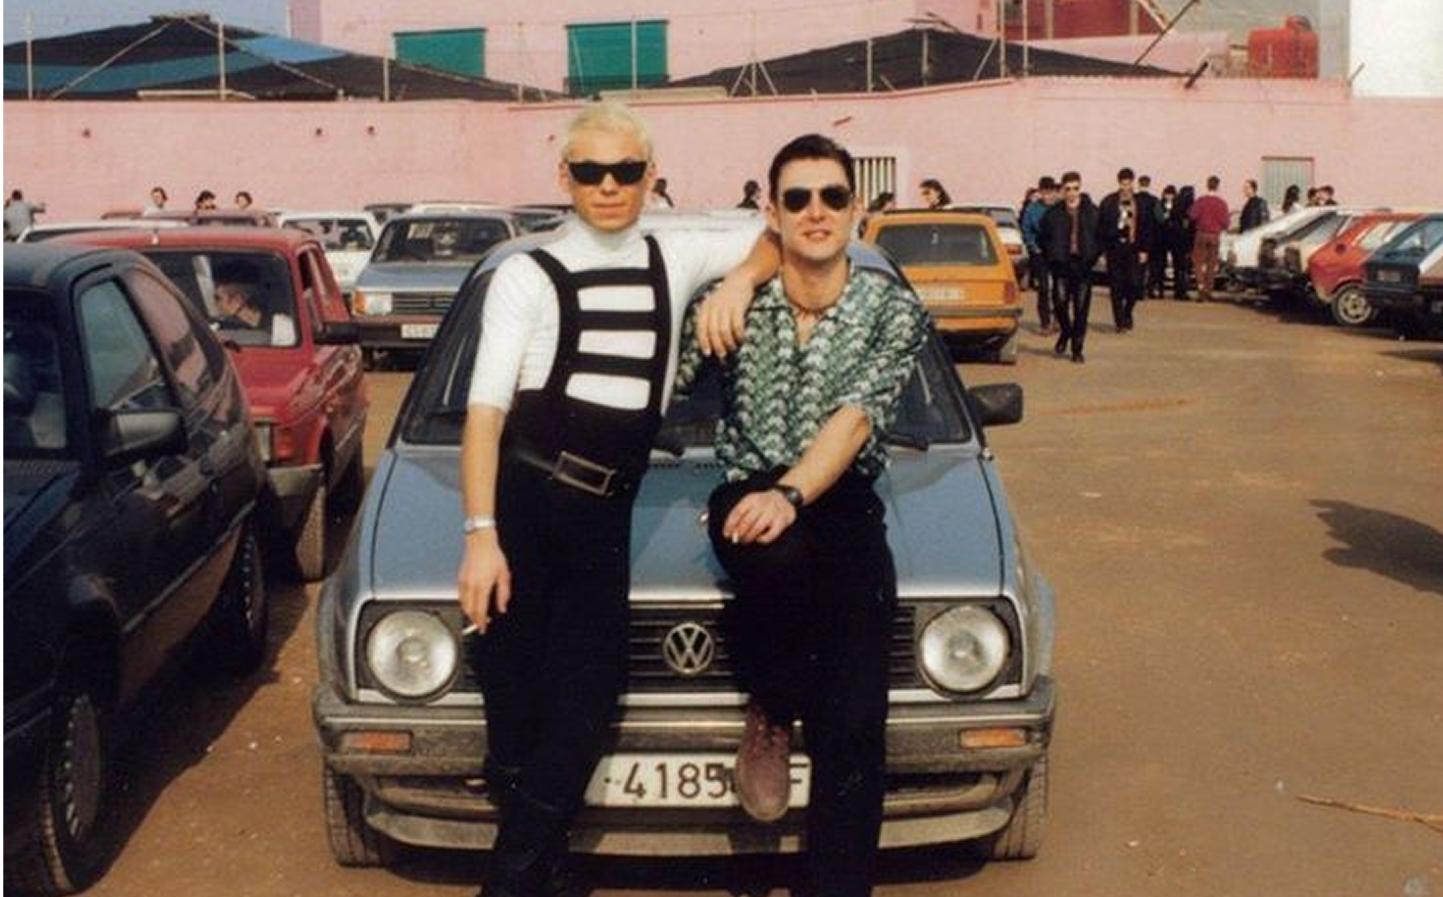
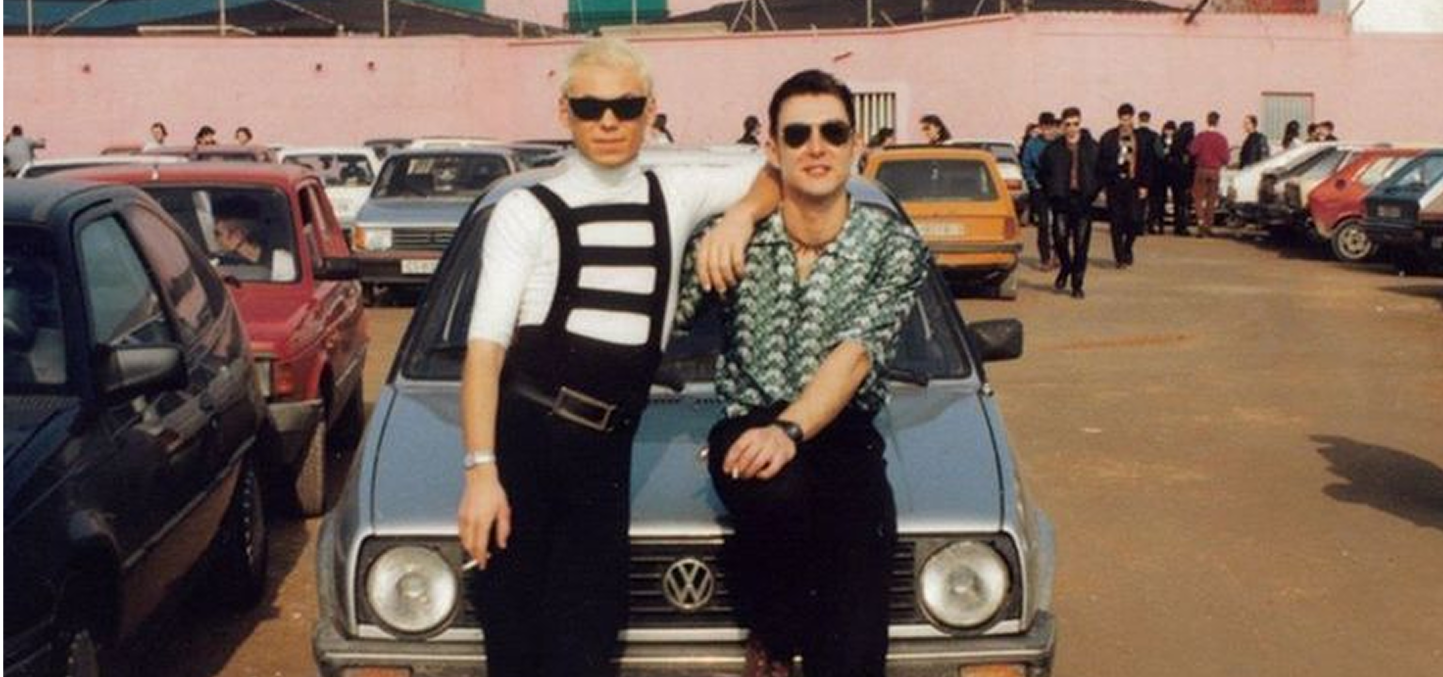
HOME DESKTOP COMPLETA

diff --git a/home.html b/home.html
@@ -497,22 +497,102 @@
                 </div>
 
 
-
-
-
             </div>
-
-
 
         </section>
 
+        <!-- SEPARADOR FRASE HOME  -->
+
+        <div class="separador-frase-home">
+            <p>Detrás de la energía de la Ruta del Bakalao existió una capa visual constante, creada por diseñadores que tradujeron la noche en imagen.</p>
+        </div>
 
 
+        <!-- AUTXR DESCONOCIDX SECTION HOME -->
+
+        <section class="desconocido-home">
+            <h1>AUTORX DESCONOCIDX</h1>
+            <div>
+                <img src="media/img/Group 28.png" alt="">
+                <img src="media/img/desconocido1.png" alt="">
+                <img src="media/img/desconocido3.png" alt="">
+            </div>
+            <p>Muchos de los diseños que definieron la imagen de la Ruta del Bakalao no tienen firma. Flyers, carteles y composiciones circulaban sin autor reconocido, creados por equipos internos de las discotecas, imprentas locales o diseñadores que quedaban fuera del registro oficial. Esa anonimidad no es un vacío, sino parte del propio fenómeno: <span>una gráfica hecha desde la urgencia</span>, donde lo importante no era quién diseñaba, sino que la imagen funcionara en la calle.</p>
+        </section>
+
+        <!-- SEPARADOR FOTO 1 MARQEUSINA HOME -->
 
 
+        <div class="separador-foto-home">
+            
+            <div class="espiral">
+                <div>
+                    <p>ARCHIVO VISUAL DE LA RUTA</p>
+                    <p>//</p>
+                    <p>VALENCIA</p>
+                    <p>//</p>
+                    <p>1980-1995</p>
+                    <p>//</p>
+                    <p>ARCHIVO VISUAL DE LA RUTA</p>
+                    <p>//</p>
+                    <p>VALENCIA</p>
+                    <p>//</p>
+                    <p>1980-1995</p>
+                    <p>//</p>
+                    <p>ARCHIVO VISUAL DE LA RUTA</p>
+                    <p>//</p>
+                    <p>VALENCIA</p>
+                    <p>//</p>
+                    <p>1980-1995</p>
+                    <p>//</p>
+                    <p>ARCHIVO VISUAL DE LA RUTA</p>
+                    <p>//</p>
+                    <p>VALENCIA</p>
+                    <p>//</p>
+                    <p>1980-1995</p>
+                    <p>//</p>
+                </div>   
+               
+            </div>
 
+            <div class="img-separador-home">
+                <img src="media/img/separadorhome2.png" alt="">
+            </div>
+
+            <!-- <div class="espiral">
+            <div>
+                <p>ARCHIVO VISUAL DE LA RUTA</p>
+                <p>//</p>
+                <p>VALENCIA</p>
+                <p>//</p>
+                <p>1980-1995</p>
+                <p>//</p>
+                <p>ARCHIVO VISUAL DE LA RUTA</p>
+                <p>//</p>
+                <p>VALENCIA</p>
+                <p>//</p>
+                <p>1980-1995</p>
+                <p>//</p>
+                <p>ARCHIVO VISUAL DE LA RUTA</p>
+                <p>//</p>
+                <p>VALENCIA</p>
+                <p>//</p>
+                <p>1980-1995</p>
+                <p>//</p>
+                <p>ARCHIVO VISUAL DE LA RUTA</p>
+                <p>//</p>
+                <p>VALENCIA</p>
+                <p>//</p>
+                <p>1980-1995</p>
+                <p>//</p>
+               
+            </div> -->
 
         </div>
+
+
+
+        
 
         <!-- MARQUESINA -->
 

diff --git a/css/style.css b/css/style.css
@@ -808,7 +808,7 @@ footer {
 
 .separador-foto-home > div > img {
   width: 100%; 
-  
+  height: fit-content;
 }
 
 /* DISEÑADORES RUTA SECTION HOME */
@@ -1001,8 +1001,69 @@ gap: 2rem;
     color: var(--ac-color);
 }
 
+/* SEPARADOR FRASE HOME  */
 
 
+.separador-frase-home {
+    height: fit-content;
+    background-color: var(--ac-color);
+    width: 100vw;
+    margin: 0 -40px ;
+    padding: 6vh 40px;
+    display: flex;
+    align-items: center;
+    justify-content: center;
+    
+}
+
+.separador-frase-home> p {
+    color: var(--bg-color);
+    font-family: Druk;
+    font-size: 2.5rem;
+    text-align: center;
+}
+
+
+/* AUTORX DESCONOCIDX SECTION HOME  */
+
+.desconocido-home {
+    display: flex;
+    flex-direction: column;
+    padding-top: 6vh;
+    padding: 6vh;
+}
+
+.desconocido-home > h1 {
+   padding-bottom: 6vh;
+    padding-top: 6vh;
+    text-align: center;
+    font-size: 5vw; 
+}
+
+.desconocido-home > div {
+    display: flex;
+    gap: 2rem;
+    padding-bottom: 6vh;
+}
+
+.desconocido-home > div >
+img {
+    width: 100%;
+   height: auto;
+   min-width: 180px;
+   max-width: 600px;
+   object-fit: contain;
+}
+
+.desconocido-home > p {
+    font-size: 2.5rem;
+}
+
+.desconocido-home > p > span {
+    color: var(--ac-color);
+}
+
+/* SEPARADOR FOTO 1 MARQEUSINA HOME  */
 
 
 
